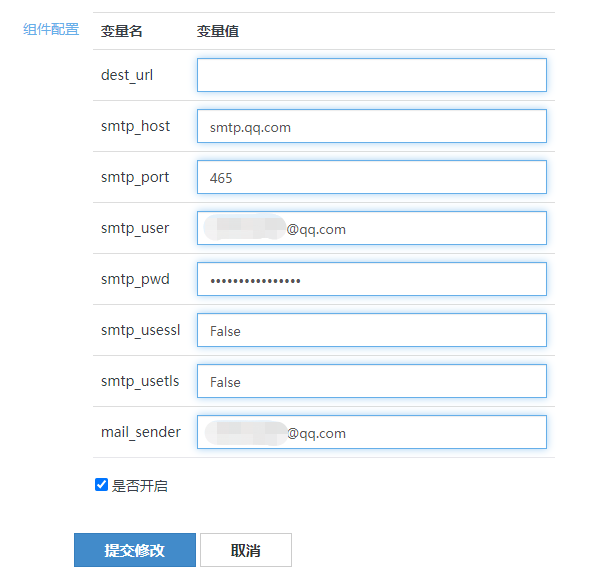
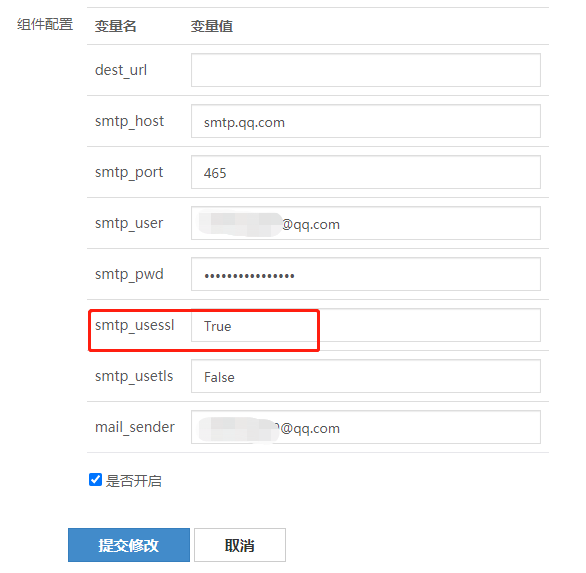
更新邮件通知的图片

diff --git a/ZH/6.0/PaaS平台/产品白皮书/场景案例/send_mail.md b/ZH/6.0/PaaS平台/产品白皮书/场景案例/send_mail.md
@@ -35,10 +35,11 @@ QQ 邮箱的 SMTP 服务，默认是关闭的。
 [QQ 邮箱 SMTP 默认配置](https://service.mail.qq.com/cgi-bin/help?subtype=1&&id=20010&&no=1000557)：
 
 ```bash
-smtp_host : smtp.qq.com
+smtp_host ：smtp.qq.com
 smtp_port ：465
 smtp_user ：demo@qq.com （个人QQ邮箱地址）
 smtp_pwd ：授权码
+smtp_usessl ：True
 ```
 
 ![-w2020](../assets/noticeWay02.png)
